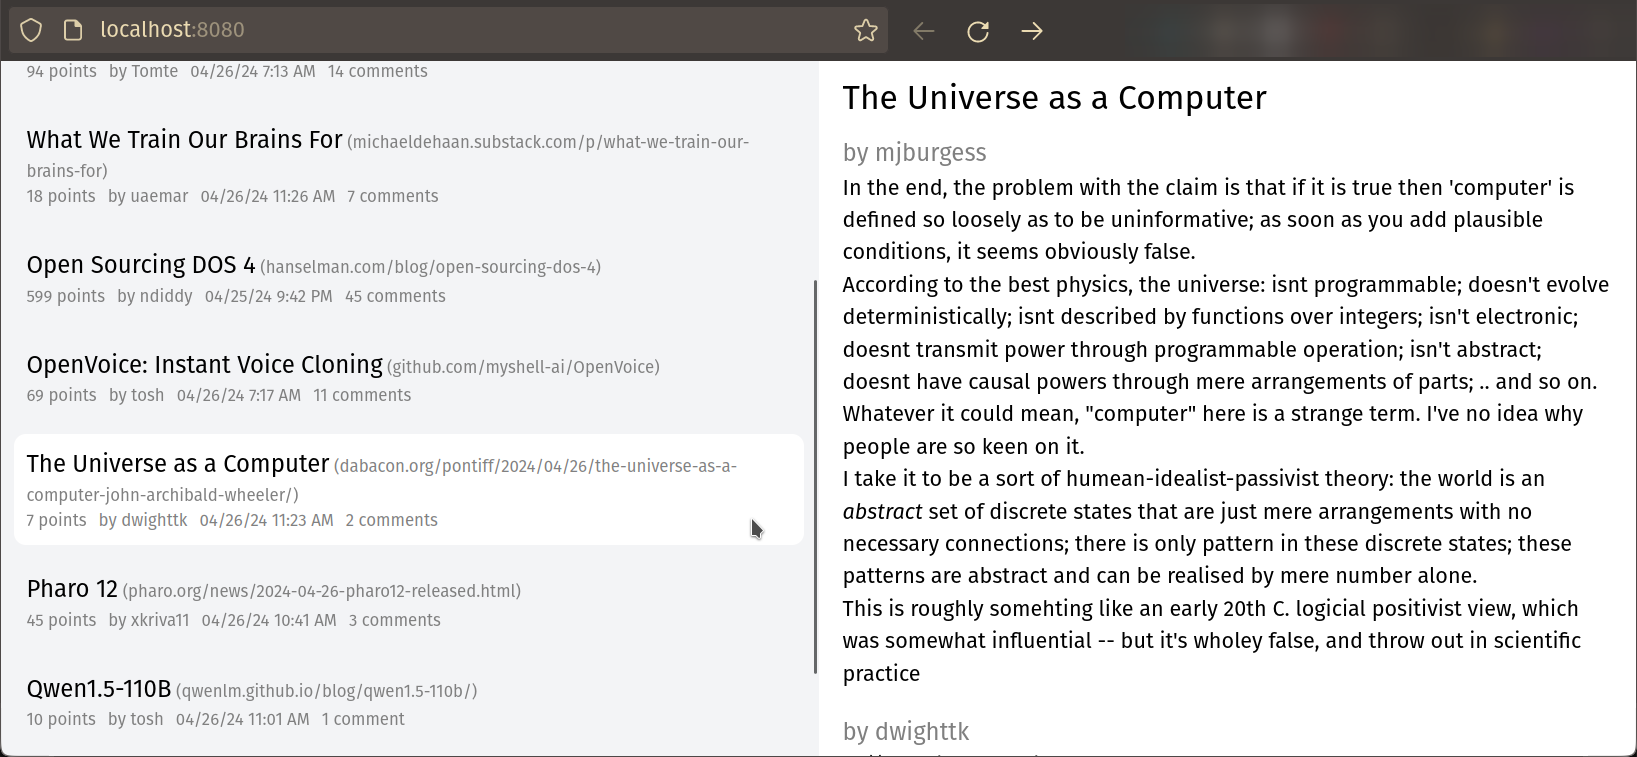
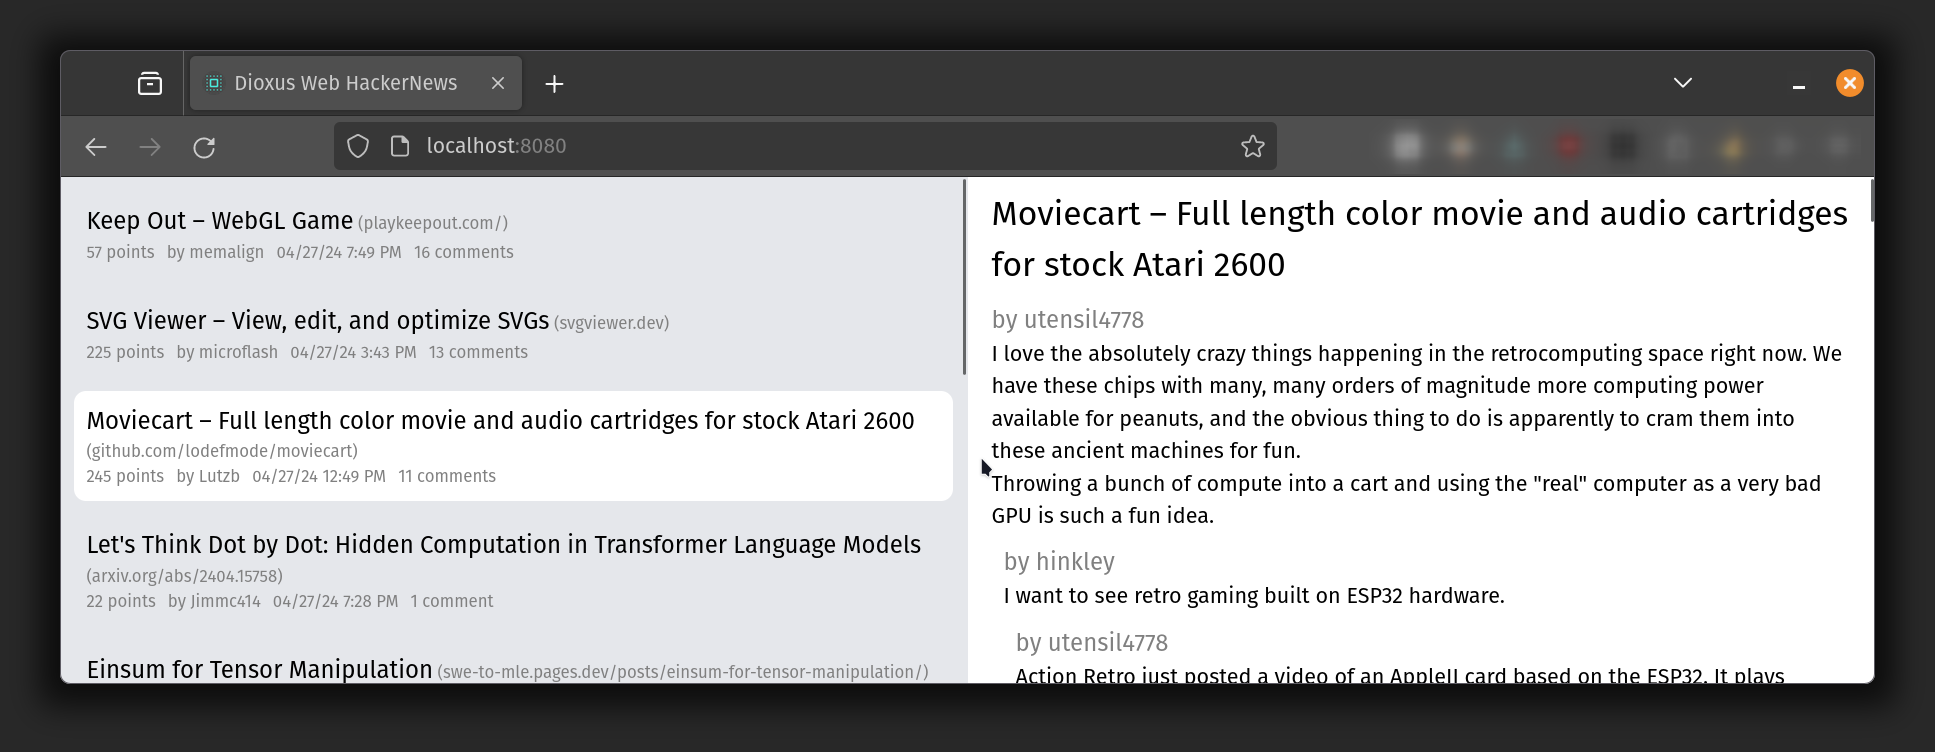
dioxus-guide-05-web-hackernews: active story bg
Closes #1.

diff --git a/dioxus-guide-05-web-hackernews/assets/tailwind.css b/dioxus-guide-05-web-hackernews/assets/tailwind.css
@@ -590,9 +590,23 @@ video {
   overflow-y: auto;
 }
 
+.rounded-lg {
+  border-radius: 0.5rem;
+}
+
 .bg-gray-100 {
   --tw-bg-opacity: 1;
   background-color: rgb(243 244 246 / var(--tw-bg-opacity));
+}
+
+.bg-white {
+  --tw-bg-opacity: 1;
+  background-color: rgb(255 255 255 / var(--tw-bg-opacity));
+}
+
+.bg-gray-200 {
+  --tw-bg-opacity: 1;
+  background-color: rgb(229 231 235 / var(--tw-bg-opacity));
 }
 
 .hover\:rounded-lg:hover {

diff --git a/dioxus-guide-05-web-hackernews/src/components.rs b/dioxus-guide-05-web-hackernews/src/components.rs
@@ -9,7 +9,7 @@ use crate::{
 pub fn Home() -> Element {
     rsx! {
         div { display: "flex", flex_direction: "row", width: "100%",
-            div { class:"bg-gray-100 h-screen overflow-y-auto", width: "50%", Stories {} }
+            div { class:"bg-gray-200 h-screen overflow-y-auto", width: "50%", Stories {} }
             div { class:"h-screen overflow-y-auto", width: "50%", Preview {} }
         }
     }
@@ -59,7 +59,7 @@ fn StoryListing(story: ReadOnlySignal<StoryItem>) -> Element {
     } = story();
 
     let full_story = use_signal::<Option<StoryPageData>>(|| None);
-    let mut is_active = use_signal(|| false);
+    let mut is_active = false;
 
     let url = url.as_deref().unwrap_or_default();
     let hostname = url
@@ -75,22 +75,20 @@ fn StoryListing(story: ReadOnlySignal<StoryItem>) -> Element {
     let time = time.format("%D %l:%M %p");
 
     if let PreviewState::Loaded(active_story) = preview_state() {
-        if active_story.item.id == id && !is_active() {
-            *is_active.write() = true;
-        } else if active_story.item.id != id && is_active() {
-            *is_active.write() = false;
+        if active_story.item.id == id && !is_active {
+            is_active = true;
+        } else if active_story.item.id != id && is_active {
+            is_active = false;
         }
-        log::info!(
-            "id = {} active_story.item.id = {} is_active={}",
-            id,
-            active_story.item.id,
-            is_active
-        );
+    } else {
+        if is_active {
+            is_active = false
+        };
     };
 
     rsx! {
         div {
-            class: if is_active() { "bg-white rounded-lg hover:bg-white hover:rounded-lg" } else { "hover:bg-white hover:rounded-lg" },
+            class: if is_active { "bg-white rounded-lg hover:bg-white hover:rounded-lg" } else { "hover:bg-white hover:rounded-lg" },
             margin: "0.6rem", padding: "0.5rem", position: "relative",
             onmouseenter: move |_| { resolve_story(full_story, preview_state, id) },
             div { font_size: "0.7rem",

diff --git a/dioxus-guide-05-web-hackernews/readme.md b/dioxus-guide-05-web-hackernews/readme.md
@@ -18,6 +18,7 @@ This project is based on [Dioxus Guide](https://dioxuslabs.com/learn/0.5/guide/f
 -   Styling (for a better UX):
     -   Background on hover on a story (on the left side).
     -   Separate scrollbar for each of the two sides.
+    -   Highlight the currently "selected" (last hovered) story (on the left side).
     -   See an example of the output:
         ![](./screenshot.png)
 
